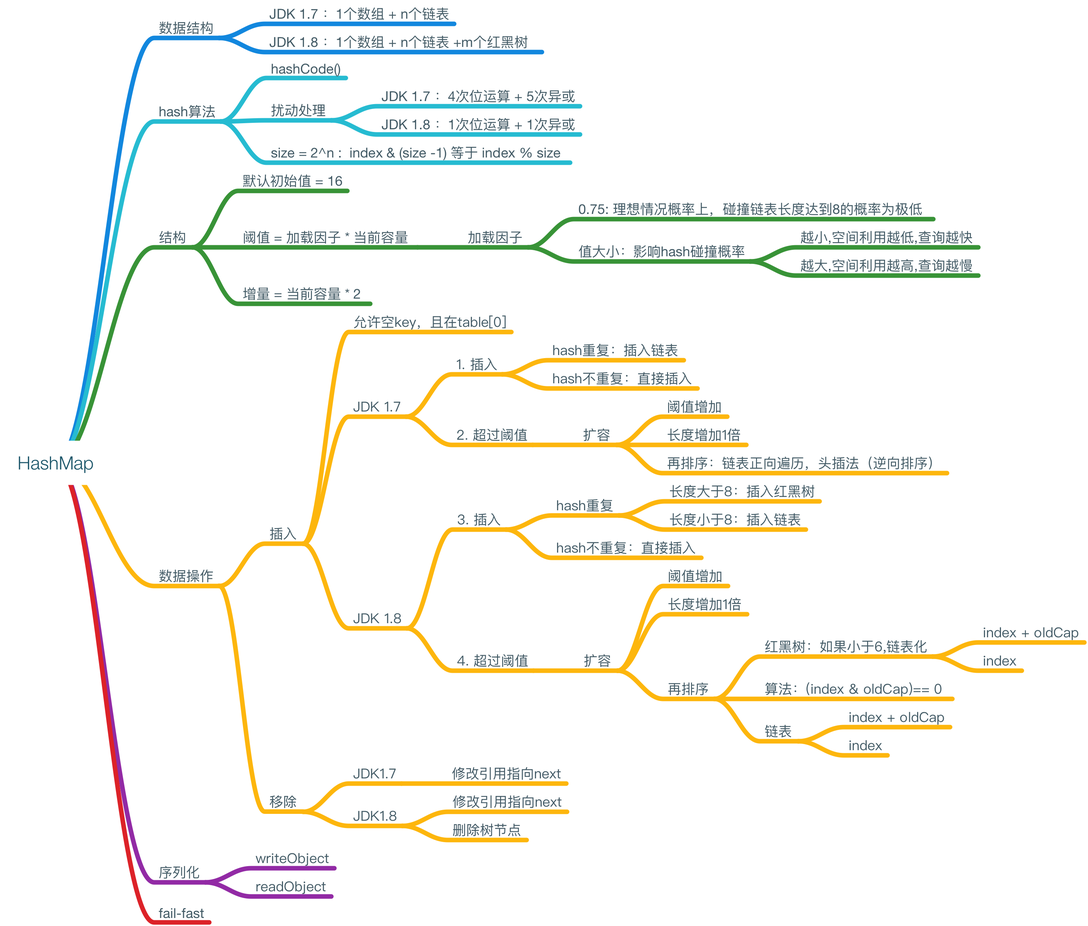
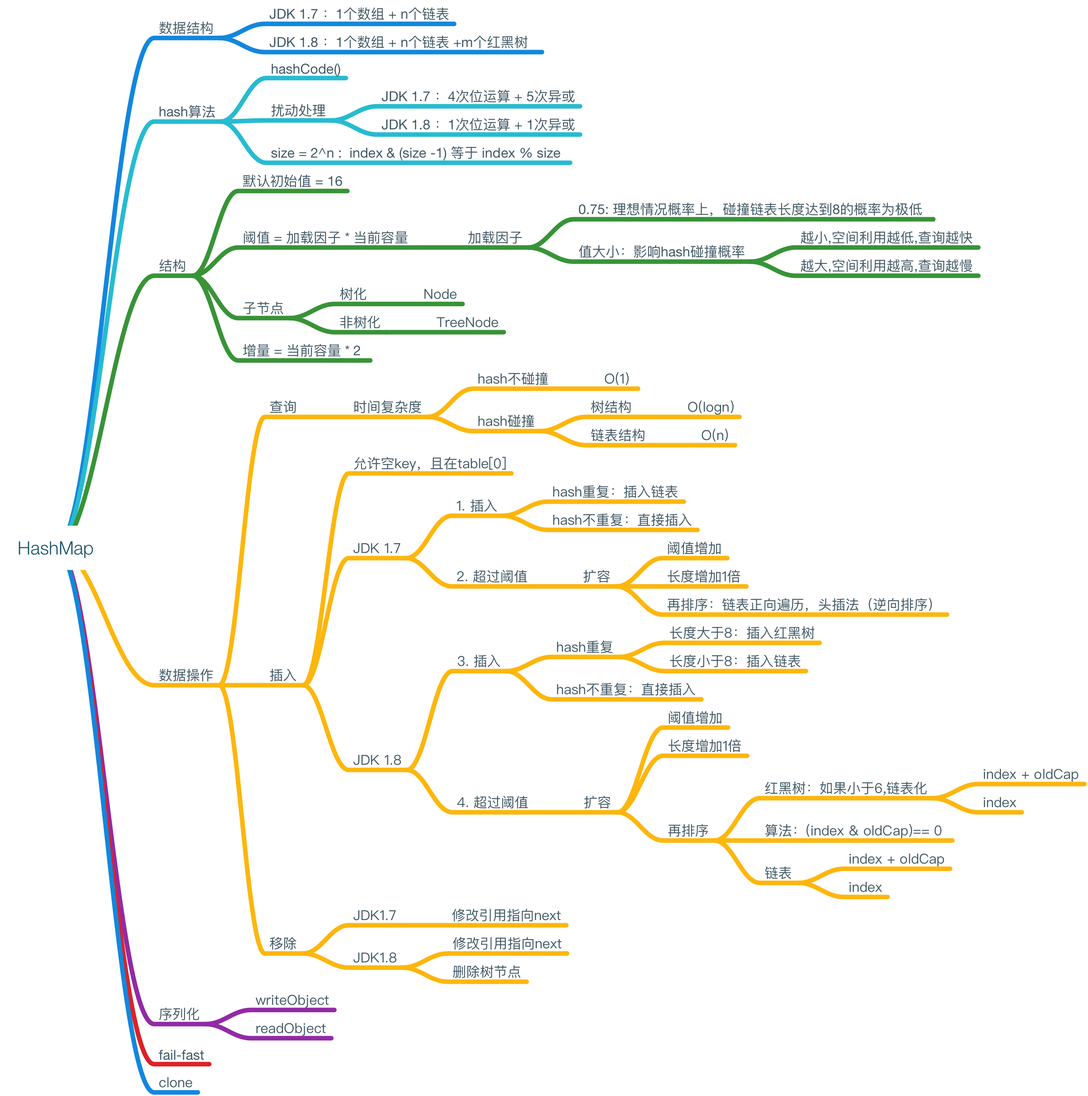
Site updated: 2018-07-26 17:08:09

diff --git a/2018/07/23/最熟悉的陌生人—HashMap/index.html b/2018/07/23/最熟悉的陌生人—HashMap/index.html
@@ -189,6 +189,34 @@
 <p>散列表（Hash table，也叫哈希表），是根据关键码值(Key value)而直接进行访问的数据结构。也就是说，它通过把关键码值映射到表中一个位置来访问记录，以加快查找的速度。</p>
 </blockquote>
 <p>由定义可以肯定的是HashMap是哈希表，而哈希表到底是怎么实现的呢？本篇将会带领你一步一步拆解</p>
+<h2 id="哈希碰撞"><a href="#哈希碰撞" class="headerlink" title="哈希碰撞"></a>哈希碰撞</h2><p>在了解HashMap源码之前，我们还需要了解一个概念，就是哈希碰撞。</p>
+<p>对于这个概念通常有几个疑问</p>
+<ul>
+<li>什么是哈希碰撞（what）</li>
+<li>如何解决哈希碰撞（how）</li>
+<li>哈希碰撞是怎么出现的（why）</li>
+</ul>
+<ol>
+<li>什么是哈希碰撞：</li>
+</ol>
+<p>哈希值是作为一种数据”指纹“而存在，广泛的运用在查找与存储方面。一般情况大家都希望它是具有唯一性的。而事实上，所有产生hash值的hash算法都不能避免哈希值完全不相同。当多个数据的hash值相同的时候，就称为哈希碰撞。</p>
+<p>打个比方，你（key）出生了，被爸妈取名（hash算法）为刘伟，后来发现全国有好多个叫刘伟的人。于是你哭了，我要怎么证明我是我？</p>
+<ol>
+<li>如何解决哈希碰撞：</li>
+</ol>
+<p>常见的解决哈希碰撞的思路有:</p>
+<ul>
+<li>开放地址法：通过使用与地址、表长相关的算法再计算值；</li>
+<li>再哈希法：通过一定的规则多次hash；</li>
+<li>建立一个公共溢出区：通过一个表来记录冲突的hash数据</li>
+<li>拉链法：将hash冲突的值存在同一个链表中；</li>
+</ul>
+<p>(想要了解更多，可点击<a href="https://www.cnblogs.com/ChaosJu/p/4756085.html" target="_blank" rel="noopener">传送门</a>)</p>
+<p>上面的4个方法主要解决的其实就是：在全国有那么个叫刘伟的情况下，还能找到你。</p>
+<p>而以上的方法中被HashMap使用的就是拉链法（我还是不太理解哪里像拉链了），这点下文会介绍到。</p>
+<ul>
+<li>哈希碰撞是怎么出现的（why）<br>如1所说，所有的hash算法不存在hash一次就能保证生成的结果一定是唯一的。而一个好的hash算法就是将出现hash碰撞的概率降到最低。</li>
+</ul>
 <h2 id="类定义"><a href="#类定义" class="headerlink" title="类定义"></a>类定义</h2><figure class="highlight java"><table><tr><td class="gutter"><pre><span class="line">1</span><br><span class="line">2</span><br></pre></td><td class="code"><pre><span class="line"><span class="keyword">public</span> <span class="class"><span class="keyword">class</span> <span class="title">HashMap</span>&lt;<span class="title">K</span>, <span class="title">V</span>&gt; <span class="keyword">extends</span> <span class="title">AbstractMap</span>&lt;<span class="title">K</span>, <span class="title">V</span>&gt;</span></span><br><span class="line"><span class="class">	<span class="keyword">implements</span> <span class="title">Map</span>&lt;<span class="title">K</span>, <span class="title">V</span>&gt;, <span class="title">Cloneable</span>, <span class="title">Serializable</span></span></span><br></pre></td></tr></table></figure>
 <ul>
 <li><p>AbstractMap：实现了Map接口，实现了Map的get，container等方法，不过很多都被HashMap重写</p>
@@ -198,14 +226,47 @@
 <li><p>Serializable：标记接口，可被默认的序列化机制序列化与反序列化</p>
 </li>
 </ul>
-<h2 id="主要内容"><a href="#主要内容" class="headerlink" title="主要内容"></a>主要内容</h2><p><img src="https://github.com/YanyeZhang/YanyeZhang.github.io/blob/master/images/hashmap.png?raw=true" alt="内容大纲"></p>
-<h3 id="数据结构"><a href="#数据结构" class="headerlink" title="数据结构"></a>数据结构</h3><p>HashMap的数据结构在JDK1.8比之于JDK1.7有一个重大的升级：增加了红黑树结构。</p>
+<h2 id="主要内容"><a href="#主要内容" class="headerlink" title="主要内容"></a>主要内容</h2><p><img src="https://github.com/YanyeZhang/YanyeZhang.github.io/blob/master/images/HashMap.png?raw=true" alt="内容大纲"></p>
+<h3 id="数据结构"><a href="#数据结构" class="headerlink" title="数据结构"></a>数据结构</h3><p>HashMap的数据结构在 JDK1.8比之于JDK1.7有一个重大的升级：增加了红黑树结构。</p>
 <ul>
-<li>在JDK1.7中对于发生hash碰撞的值，会通过链表的方式插入：<br><img src="图" alt="内容大纲"></li>
-<li>在JDK1.8中为了解决当链表过长而导致查询速度变慢的问题，引用了红黑树<br><img src="图" alt="内容大纲"></li>
+<li>在 JDK1.7 中对于发生hash碰撞的值，会通过链表的方式插入：<br><img src="https://github.com/YanyeZhang/YanyeZhang.github.io/blob/master/images/jdk1.7-hashmap.png?raw=true" alt="内容大纲"></li>
+<li>在JDK1.8中为了解决当链表过长而导致查询速度变慢的问题，在原有的结构上引用了红黑树。<br><img src="https://github.com/YanyeZhang/YanyeZhang.github.io/blob/master/images/jdk1.8-hashmap.png?raw=true" alt="内容大纲"></li>
 </ul>
-<p>关于红黑树的内容，这里先不多加赘述。</p>
-<p>### </p>
+<p>这里我们先了解一下红黑树优点：在插入、删除、查询的时候时间复杂度是O(log n)，在应付数据量较大的时候有着良好的性能。</p>
+<p>回到JDK1.7,没有红黑树的情况下对链表的查询、删除、插入将永远是O(n)。当n值较大的时候，所耗费的时间也会随之增大，也正是为了性能的优化，JDK1.8中引入了红黑树。</p>
+<p>关于红黑树的内容，这里先不多加赘述。附带一个<a href="http://www.cnblogs.com/skywang12345/p/3245399.html" target="_blank" rel="noopener">学习地址</a></p>
+<h3 id="Hash算法"><a href="#Hash算法" class="headerlink" title="Hash算法"></a>Hash算法</h3><p>HashMap的哈希值也经历了1.7到1.8的升级过程。</p>
+<ul>
+<li><p>JDK1.8的哈希算法：一次位运算，一次异或；</p>
+<figure class="highlight java"><table><tr><td class="gutter"><pre><span class="line">1</span><br><span class="line">2</span><br><span class="line">3</span><br><span class="line">4</span><br></pre></td><td class="code"><pre><span class="line"><span class="function"><span class="keyword">static</span> <span class="keyword">final</span> <span class="keyword">int</span> <span class="title">hash</span><span class="params">(Object key)</span> </span>&#123;</span><br><span class="line">	<span class="keyword">int</span> h;</span><br><span class="line">       <span class="keyword">return</span> (key == <span class="keyword">null</span>) ? <span class="number">0</span> : (h = key.hashCode()) ^ (h &gt;&gt;&gt; <span class="number">16</span>);</span><br><span class="line">&#125;</span><br></pre></td></tr></table></figure>
+</li>
+<li><p>JDK1.7的哈希算法：4次位运算，5次异或；</p>
+<figure class="highlight java"><table><tr><td class="gutter"><pre><span class="line">1</span><br><span class="line">2</span><br><span class="line">3</span><br><span class="line">4</span><br><span class="line">5</span><br><span class="line">6</span><br></pre></td><td class="code"><pre><span class="line"><span class="function"><span class="keyword">static</span> <span class="keyword">final</span> <span class="keyword">int</span> <span class="title">hash</span><span class="params">(Object key)</span> </span>&#123;</span><br><span class="line">	<span class="keyword">int</span> h;</span><br><span class="line">	h ^= k.hashCode(); </span><br><span class="line">       h ^= (h &gt;&gt;&gt; <span class="number">20</span>) ^ (h &gt;&gt;&gt; <span class="number">12</span>);</span><br><span class="line">       <span class="keyword">return</span> h ^ (h &gt;&gt;&gt; <span class="number">7</span>) ^ (h &gt;&gt;&gt; <span class="number">4</span>)</span><br><span class="line">&#125;</span><br></pre></td></tr></table></figure>
+</li>
+</ul>
+<p>两个版本间的hash算法的变化，出于两个目的：</p>
+<ol>
+<li>减少计算次数，提高效率</li>
+<li>降低hash碰撞的概率</li>
+</ol>
+<p>这里得出hash值根据以下公式生成索引</p>
+<figure class="highlight java"><table><tr><td class="gutter"><pre><span class="line">1</span><br></pre></td><td class="code"><pre><span class="line">index = hash(key) &amp; (length -<span class="number">1</span>)</span><br></pre></td></tr></table></figure>
+<h4 id="问题1：为什么length的值要是2-n？"><a href="#问题1：为什么length的值要是2-n？" class="headerlink" title="问题1：为什么length的值要是2^n？"></a>问题1：为什么length的值要是2^n？</h4><p>很多刚开始看的同学都会有这个疑问。 这里给出我自己的解答：</p>
+<blockquote>
+<p>在 length为2^n的情况下，能保证与hash值与运算的结果在 0 ~ length-1 之间</p>
+</blockquote>
+<p>以下我们来验证一下，<br><figure class="highlight java"><table><tr><td class="gutter"><pre><span class="line">1</span><br><span class="line">2</span><br><span class="line">3</span><br></pre></td><td class="code"><pre><span class="line">hash(key)     = <span class="number">1011</span> <span class="number">1011</span> <span class="number">1101</span> <span class="number">0010</span></span><br><span class="line">length：<span class="number">2</span>^<span class="number">4</span>-<span class="number">1</span> = <span class="number">0000</span> <span class="number">0000</span> <span class="number">0000</span> <span class="number">1111</span></span><br><span class="line">result        = <span class="number">0000</span> <span class="number">0000</span> <span class="number">0000</span> <span class="number">0010</span></span><br></pre></td></tr></table></figure></p>
+<p>因为length的高于8的位都是0，所以进行与运算之后都会置为0。因此范围一定落在0 ~ length-1之间。</p>
+<h3 id="结构"><a href="#结构" class="headerlink" title="结构"></a>结构</h3><p>以下代码节选出一些HashMap中比较重要的参数。<br><figure class="highlight plain"><table><tr><td class="gutter"><pre><span class="line">1</span><br><span class="line">2</span><br><span class="line">3</span><br><span class="line">4</span><br><span class="line">5</span><br><span class="line">6</span><br><span class="line">7</span><br><span class="line">8</span><br><span class="line">9</span><br><span class="line">10</span><br><span class="line">11</span><br><span class="line">12</span><br><span class="line">13</span><br><span class="line">14</span><br><span class="line">15</span><br><span class="line">16</span><br><span class="line">17</span><br><span class="line">18</span><br><span class="line">19</span><br><span class="line">20</span><br><span class="line">21</span><br><span class="line">22</span><br><span class="line">23</span><br><span class="line">24</span><br><span class="line">25</span><br><span class="line">26</span><br><span class="line">27</span><br><span class="line">28</span><br><span class="line">29</span><br><span class="line">30</span><br><span class="line">31</span><br><span class="line">32</span><br><span class="line">33</span><br><span class="line">34</span><br><span class="line">35</span><br><span class="line">36</span><br><span class="line">37</span><br><span class="line">38</span><br><span class="line">39</span><br><span class="line">40</span><br><span class="line">41</span><br><span class="line">42</span><br><span class="line">43</span><br><span class="line">44</span><br><span class="line">45</span><br><span class="line">46</span><br><span class="line">47</span><br><span class="line">48</span><br><span class="line">49</span><br><span class="line">50</span><br><span class="line">51</span><br><span class="line">52</span><br><span class="line">53</span><br></pre></td><td class="code"><pre><span class="line">static final int DEFAULT_INITIAL_CAPACITY = 1 &lt;&lt; 4; // 默认大小</span><br><span class="line">static final int MAXIMUM_CAPACITY = 1 &lt;&lt; 30;  //最大容量</span><br><span class="line">static final float DEFAULT_LOAD_FACTOR = 0.75f; //扩容因子</span><br><span class="line"></span><br><span class="line">transient Node&lt;K,V&gt;[] table; //数组</span><br><span class="line">transient int size;	//元素的个数</span><br><span class="line">transient int modCount; //操作数</span><br><span class="line">int threshold;	//阈值</span><br><span class="line"></span><br><span class="line">static class Node&lt;K,V&gt; implements Map.Entry&lt;K,V&gt; &#123; //节点类</span><br><span class="line">		final int hash; //节点hash值</span><br><span class="line">        final K key; </span><br><span class="line">        V value;</span><br><span class="line">        Node&lt;K,V&gt; next; //指向下一个节点</span><br><span class="line"></span><br><span class="line">        Node(int hash, K key, V value, Node&lt;K,V&gt; next) &#123;</span><br><span class="line">            this.hash = hash;</span><br><span class="line">            this.key = key;</span><br><span class="line">            this.value = value;</span><br><span class="line">            this.next = next;</span><br><span class="line">        &#125;</span><br><span class="line"></span><br><span class="line">        public final K getKey()        &#123; return key; &#125;</span><br><span class="line">        public final V getValue()      &#123; return value; &#125;</span><br><span class="line">        public final String toString() &#123; return key + &quot;=&quot; + value; &#125;</span><br><span class="line"></span><br><span class="line">        public final int hashCode() &#123;</span><br><span class="line">            return Objects.hashCode(key) ^ Objects.hashCode(value);</span><br><span class="line">        &#125;</span><br><span class="line"></span><br><span class="line">        public final V setValue(V newValue) &#123;</span><br><span class="line">            V oldValue = value;</span><br><span class="line">            value = newValue;</span><br><span class="line">            return oldValue;</span><br><span class="line">        &#125;</span><br><span class="line"></span><br><span class="line">        public final boolean equals(Object o) &#123;</span><br><span class="line">            if (o == this)</span><br><span class="line">                return true;</span><br><span class="line">            if (o instanceof Map.Entry) &#123;</span><br><span class="line">                Map.Entry&lt;?,?&gt; e = (Map.Entry&lt;?,?&gt;)o;</span><br><span class="line">                if (Objects.equals(key, e.getKey()) &amp;&amp;</span><br><span class="line">                    Objects.equals(value, e.getValue()))</span><br><span class="line">                    return true;</span><br><span class="line">            &#125;</span><br><span class="line">            return false;</span><br><span class="line">        &#125;</span><br><span class="line">    &#125;</span><br><span class="line"></span><br><span class="line">JDK1.8新增：</span><br><span class="line">static final int TREEIFY_THRESHOLD = 8; //链表转树最小值</span><br><span class="line">static final int UNTREEIFY_THRESHOLD = 6; //树转链表最小值</span><br><span class="line">static final class TreeNode&lt;K,V&gt; extends LinkedHashMap.LinkedHashMapEntry&lt;K,V&gt; //树化的节点类</span><br></pre></td></tr></table></figure></p>
+<p>以上比较重要的就是扩容因子与阈值,它们间的计算公式如下<br><figure class="highlight plain"><table><tr><td class="gutter"><pre><span class="line">1</span><br></pre></td><td class="code"><pre><span class="line">threshold = table.length * DEFAULT_LOAD_FACTOR</span><br></pre></td></tr></table></figure></p>
+<p>其次就是Node类，HashMap中将所有传进来的key和value 都通过Node来包装一层。除了key和value这些基础数据之外。当hash碰撞后，将会由Node类中的next成员变量作为持有下一个节点的引用形成链表（单向链表）。而1.8中TreeNode是在数化之后变换的节点类型，感兴趣的可以自己深入</p>
+<h4 id="问题2：阈值与扩容因子的作用？"><a href="#问题2：阈值与扩容因子的作用？" class="headerlink" title="问题2：阈值与扩容因子的作用？"></a>问题2：阈值与扩容因子的作用？</h4><p>阈值的作用是判断当前是否需要扩容的，当size超过阈值就需要扩容。因此扩容因子直接决定了阈值的大小。而从更深层次的角度上看，扩容因子影响了HashMap的空间利用率。</p>
+<p>当扩容因子较小的时候，size很容易就超过阈值，引发扩容。这个时候table的空间还相对充分，元素分布较为分散。因此空间利用率较低。正是因为这样的特性，扩容因子较小的时候也不容易产生哈希碰撞。</p>
+<p>反之，扩容因子越大。元素分布越紧密，空间利用率越高，而容易发生哈希碰撞。</p>
+<p>某天公司同事小杰宝问了我一个问题——”为什么扩容因子是0.75f“，我一时语塞。网上查完资料后才知道。在理想情况下，经过大量数据概率验证后扩容因子为0.75f的时候，链表长度几乎不超过8。</p>
+<p>而HashMap扩容的部分，我放在后面插入的部分讲解。</p>
+<h3 id="数据操作"><a href="#数据操作" class="headerlink" title="数据操作"></a>数据操作</h3><h4 id="查询操作"><a href="#查询操作" class="headerlink" title="查询操作"></a>查询操作</h4><p>以下以JDK1.8的源码为例：<br><figure class="highlight java"><table><tr><td class="gutter"><pre><span class="line">1</span><br><span class="line">2</span><br><span class="line">3</span><br><span class="line">4</span><br><span class="line">5</span><br><span class="line">6</span><br><span class="line">7</span><br><span class="line">8</span><br><span class="line">9</span><br><span class="line">10</span><br><span class="line">11</span><br><span class="line">12</span><br><span class="line">13</span><br><span class="line">14</span><br><span class="line">15</span><br><span class="line">16</span><br><span class="line">17</span><br><span class="line">18</span><br><span class="line">19</span><br><span class="line">20</span><br><span class="line">21</span><br><span class="line">22</span><br><span class="line">23</span><br><span class="line">24</span><br><span class="line">25</span><br><span class="line">26</span><br><span class="line">27</span><br><span class="line">28</span><br><span class="line">29</span><br></pre></td><td class="code"><pre><span class="line"><span class="function"><span class="keyword">public</span> V <span class="title">get</span><span class="params">(Object key)</span> </span>&#123;</span><br><span class="line">	Node&lt;K,V&gt; e;</span><br><span class="line">	<span class="keyword">return</span> (e = getNode(hash(key), key)) == <span class="keyword">null</span> ? <span class="keyword">null</span> : e.value;</span><br><span class="line">&#125;</span><br><span class="line">   </span><br><span class="line"><span class="function"><span class="keyword">final</span> Node&lt;K,V&gt; <span class="title">getNode</span><span class="params">(<span class="keyword">int</span> hash, Object key)</span> </span>&#123;</span><br><span class="line">	Node&lt;K,V&gt;[] tab; Node&lt;K,V&gt; first, e; <span class="keyword">int</span> n; K k;</span><br><span class="line">       <span class="comment">//1.根据 (n - 1) &amp; hash 方式获取数组上的索引和其上的元素</span></span><br><span class="line">	<span class="keyword">if</span> ((tab = table) != <span class="keyword">null</span> &amp;&amp; (n = tab.length) &gt; <span class="number">0</span> &amp;&amp;</span><br><span class="line">		(first = tab[(n - <span class="number">1</span>) &amp; hash]) != <span class="keyword">null</span>) &#123;</span><br><span class="line">           <span class="comment">//2. 判断第一个元素的key和value是否就是所需的节点，如果是就直接返回节点</span></span><br><span class="line">           <span class="keyword">if</span> (first.hash == hash &amp;&amp; <span class="comment">// always check first node</span></span><br><span class="line">               ((k = first.key) == key || (key != <span class="keyword">null</span> &amp;&amp; key.equals(k))))</span><br><span class="line">               <span class="keyword">return</span> first;</span><br><span class="line">           <span class="keyword">if</span> ((e = first.next) != <span class="keyword">null</span>) &#123;</span><br><span class="line">           	<span class="comment">//3. 判断第一个节点是否是树节点，如果是树，就调用树的查询方式</span></span><br><span class="line">               <span class="keyword">if</span> (first <span class="keyword">instanceof</span> TreeNode)</span><br><span class="line">               	<span class="comment">//3.1 返回树化节点</span></span><br><span class="line">                   <span class="keyword">return</span> ((TreeNode&lt;K,V&gt;)first).getTreeNode(hash, key);</span><br><span class="line">               <span class="comment">//4. 当前的节点是链表节点，通过for循环查找</span></span><br><span class="line">               <span class="keyword">do</span> &#123;</span><br><span class="line">                   <span class="keyword">if</span> (e.hash == hash &amp;&amp;</span><br><span class="line">                       ((k = e.key) == key || (key != <span class="keyword">null</span> &amp;&amp; key.equals(k))))</span><br><span class="line">                       <span class="keyword">return</span> e;</span><br><span class="line">               &#125; <span class="keyword">while</span> ((e = e.next) != <span class="keyword">null</span>);</span><br><span class="line">           &#125;</span><br><span class="line">       &#125;</span><br><span class="line">       <span class="keyword">return</span> <span class="keyword">null</span>;</span><br><span class="line">   &#125;</span><br></pre></td></tr></table></figure></p>
+<p>为了更好的了解这个流程，可以看以下的流程图增加一下印象<br><img src="" alt=""><br>在HashMap的优点之一是查询速度快，在哈希不碰撞的情况下 时间复杂度是O(1)，而在hash碰撞的时候有两种情况，树化情况下，时间复杂度O(logn)，链表化的情况下，时间复杂度是O(n)。</p>
 
     </article>
     <!-- 前后页  -->
@@ -294,7 +355,7 @@
         <div class="toc-catalog">
             <span class="iconfont-archer catalog-icon">&#xe613;</span><span>CATALOG</span>
         </div>
-        <ol class="toc"><li class="toc-item toc-level-2"><a class="toc-link" href="#前言"><span class="toc-number">1.</span> <span class="toc-text"><a href="#&#x524D;&#x8A00;" class="headerlink" title="&#x524D;&#x8A00;"></a>&#x524D;&#x8A00;</span></a></li><li class="toc-item toc-level-2"><a class="toc-link" href="#类定义"><span class="toc-number">2.</span> <span class="toc-text"><a href="#&#x7C7B;&#x5B9A;&#x4E49;" class="headerlink" title="&#x7C7B;&#x5B9A;&#x4E49;"></a>&#x7C7B;&#x5B9A;&#x4E49;</span></a></li><li class="toc-item toc-level-2"><a class="toc-link" href="#主要内容"><span class="toc-number">3.</span> <span class="toc-text"><a href="#&#x4E3B;&#x8981;&#x5185;&#x5BB9;" class="headerlink" title="&#x4E3B;&#x8981;&#x5185;&#x5BB9;"></a>&#x4E3B;&#x8981;&#x5185;&#x5BB9;</span></a><ol class="toc-child"><li class="toc-item toc-level-3"><a class="toc-link" href="#数据结构"><span class="toc-number">3.1.</span> <span class="toc-text"><a href="#&#x6570;&#x636E;&#x7ED3;&#x6784;" class="headerlink" title="&#x6570;&#x636E;&#x7ED3;&#x6784;"></a>&#x6570;&#x636E;&#x7ED3;&#x6784;</span></a></li></ol></li></ol>
+        <ol class="toc"><li class="toc-item toc-level-2"><a class="toc-link" href="#前言"><span class="toc-number">1.</span> <span class="toc-text"><a href="#&#x524D;&#x8A00;" class="headerlink" title="&#x524D;&#x8A00;"></a>&#x524D;&#x8A00;</span></a></li><li class="toc-item toc-level-2"><a class="toc-link" href="#哈希碰撞"><span class="toc-number">2.</span> <span class="toc-text"><a href="#&#x54C8;&#x5E0C;&#x78B0;&#x649E;" class="headerlink" title="&#x54C8;&#x5E0C;&#x78B0;&#x649E;"></a>&#x54C8;&#x5E0C;&#x78B0;&#x649E;</span></a></li><li class="toc-item toc-level-2"><a class="toc-link" href="#类定义"><span class="toc-number">3.</span> <span class="toc-text"><a href="#&#x7C7B;&#x5B9A;&#x4E49;" class="headerlink" title="&#x7C7B;&#x5B9A;&#x4E49;"></a>&#x7C7B;&#x5B9A;&#x4E49;</span></a></li><li class="toc-item toc-level-2"><a class="toc-link" href="#主要内容"><span class="toc-number">4.</span> <span class="toc-text"><a href="#&#x4E3B;&#x8981;&#x5185;&#x5BB9;" class="headerlink" title="&#x4E3B;&#x8981;&#x5185;&#x5BB9;"></a>&#x4E3B;&#x8981;&#x5185;&#x5BB9;</span></a><ol class="toc-child"><li class="toc-item toc-level-3"><a class="toc-link" href="#数据结构"><span class="toc-number">4.1.</span> <span class="toc-text"><a href="#&#x6570;&#x636E;&#x7ED3;&#x6784;" class="headerlink" title="&#x6570;&#x636E;&#x7ED3;&#x6784;"></a>&#x6570;&#x636E;&#x7ED3;&#x6784;</span></a></li><li class="toc-item toc-level-3"><a class="toc-link" href="#Hash算法"><span class="toc-number">4.2.</span> <span class="toc-text"><a href="#Hash&#x7B97;&#x6CD5;" class="headerlink" title="Hash&#x7B97;&#x6CD5;"></a>Hash&#x7B97;&#x6CD5;</span></a><ol class="toc-child"><li class="toc-item toc-level-4"><a class="toc-link" href="#问题1：为什么length的值要是2-n？"><span class="toc-number">4.2.1.</span> <span class="toc-text"><a href="#&#x95EE;&#x9898;1&#xFF1A;&#x4E3A;&#x4EC0;&#x4E48;length&#x7684;&#x503C;&#x8981;&#x662F;2-n&#xFF1F;" class="headerlink" title="&#x95EE;&#x9898;1&#xFF1A;&#x4E3A;&#x4EC0;&#x4E48;length&#x7684;&#x503C;&#x8981;&#x662F;2^n&#xFF1F;"></a>&#x95EE;&#x9898;1&#xFF1A;&#x4E3A;&#x4EC0;&#x4E48;length&#x7684;&#x503C;&#x8981;&#x662F;2^n&#xFF1F;</span></a></li></ol></li><li class="toc-item toc-level-3"><a class="toc-link" href="#结构"><span class="toc-number">4.3.</span> <span class="toc-text"><a href="#&#x7ED3;&#x6784;" class="headerlink" title="&#x7ED3;&#x6784;"></a>&#x7ED3;&#x6784;</span></a><ol class="toc-child"><li class="toc-item toc-level-4"><a class="toc-link" href="#问题2：阈值与扩容因子的作用？"><span class="toc-number">4.3.1.</span> <span class="toc-text"><a href="#&#x95EE;&#x9898;2&#xFF1A;&#x9608;&#x503C;&#x4E0E;&#x6269;&#x5BB9;&#x56E0;&#x5B50;&#x7684;&#x4F5C;&#x7528;&#xFF1F;" class="headerlink" title="&#x95EE;&#x9898;2&#xFF1A;&#x9608;&#x503C;&#x4E0E;&#x6269;&#x5BB9;&#x56E0;&#x5B50;&#x7684;&#x4F5C;&#x7528;&#xFF1F;"></a>&#x95EE;&#x9898;2&#xFF1A;&#x9608;&#x503C;&#x4E0E;&#x6269;&#x5BB9;&#x56E0;&#x5B50;&#x7684;&#x4F5C;&#x7528;&#xFF1F;</span></a></li></ol></li><li class="toc-item toc-level-3"><a class="toc-link" href="#数据操作"><span class="toc-number">4.4.</span> <span class="toc-text"><a href="#&#x6570;&#x636E;&#x64CD;&#x4F5C;" class="headerlink" title="&#x6570;&#x636E;&#x64CD;&#x4F5C;"></a>&#x6570;&#x636E;&#x64CD;&#x4F5C;</span></a><ol class="toc-child"><li class="toc-item toc-level-4"><a class="toc-link" href="#查询操作"><span class="toc-number">4.4.1.</span> <span class="toc-text"><a href="#&#x67E5;&#x8BE2;&#x64CD;&#x4F5C;" class="headerlink" title="&#x67E5;&#x8BE2;&#x64CD;&#x4F5C;"></a>&#x67E5;&#x8BE2;&#x64CD;&#x4F5C;</span></a></li></ol></li></ol></li></ol>
     </div>
     
     <div class="back-top">&#xe639;</div>
@@ -308,6 +369,8 @@
     <div class="sidebar-content sidebar-content-show-archive">
           <div class="sidebar-archive">
     <!-- 在ejs中将archive按照时间排序 -->
+    
+    
     
     
     
@@ -388,9 +451,9 @@
         <div class="sidebar-tags">
     <div class="sidebar-tags-name">
     
-        <span class="sidebar-tag-name"><a href= "#">Java</a></span>
-    
         <span class="sidebar-tag-name"><a href= "#">python</a></span>
+    
+        <span class="sidebar-tag-name"><a href= "#">Java</a></span>
     
     </div>
     <div class="tag-load-fail" style="display: none; color: #ccc; font-size: 0.6rem;">

diff --git a/archives/2017/12/index.html b/archives/2017/12/index.html
@@ -311,6 +311,8 @@ yeild 函数 = return 生成器（generator）
     
     
     
+    
+    
     <div class="total-archive"> Total : 4 </div>
     
     <div class="post-archive">
@@ -355,9 +357,9 @@ yeild 函数 = return 生成器（generator）
         <div class="sidebar-tags">
     <div class="sidebar-tags-name">
     
-        <span class="sidebar-tag-name"><a href= "#">Java</a></span>
-    
         <span class="sidebar-tag-name"><a href= "#">python</a></span>
+    
+        <span class="sidebar-tag-name"><a href= "#">Java</a></span>
     
     </div>
     <div class="tag-load-fail" style="display: none; color: #ccc; font-size: 0.6rem;">

diff --git a/archives/2017/index.html b/archives/2017/index.html
@@ -311,6 +311,8 @@ yeild 函数 = return 生成器（generator）
     
     
     
+    
+    
     <div class="total-archive"> Total : 4 </div>
     
     <div class="post-archive">
@@ -355,9 +357,9 @@ yeild 函数 = return 生成器（generator）
         <div class="sidebar-tags">
     <div class="sidebar-tags-name">
     
-        <span class="sidebar-tag-name"><a href= "#">Java</a></span>
-    
         <span class="sidebar-tag-name"><a href= "#">python</a></span>
+    
+        <span class="sidebar-tag-name"><a href= "#">Java</a></span>
     
     </div>
     <div class="tag-load-fail" style="display: none; color: #ccc; font-size: 0.6rem;">

diff --git a/archives/index.html b/archives/index.html
@@ -368,6 +368,8 @@ yeild 函数 = return 生成器（generator）
     
     
     
+    
+    
     <div class="total-archive"> Total : 4 </div>
     
     <div class="post-archive">
@@ -412,9 +414,9 @@ yeild 函数 = return 生成器（generator）
         <div class="sidebar-tags">
     <div class="sidebar-tags-name">
     
-        <span class="sidebar-tag-name"><a href= "#">Java</a></span>
-    
         <span class="sidebar-tag-name"><a href= "#">python</a></span>
+    
+        <span class="sidebar-tag-name"><a href= "#">Java</a></span>
     
     </div>
     <div class="tag-load-fail" style="display: none; color: #ccc; font-size: 0.6rem;">

diff --git a/index.html b/index.html
@@ -424,6 +424,8 @@ yeild 函数 = return 生成器（generator）
     
     
     
+    
+    
     <div class="total-archive"> Total : 4 </div>
     
     <div class="post-archive">
@@ -468,9 +470,9 @@ yeild 函数 = return 生成器（generator）
         <div class="sidebar-tags">
     <div class="sidebar-tags-name">
     
-        <span class="sidebar-tag-name"><a href= "#">Java</a></span>
-    
         <span class="sidebar-tag-name"><a href= "#">python</a></span>
+    
+        <span class="sidebar-tag-name"><a href= "#">Java</a></span>
     
     </div>
     <div class="tag-load-fail" style="display: none; color: #ccc; font-size: 0.6rem;">

diff --git a/tags/python/index.html b/tags/python/index.html
@@ -311,6 +311,8 @@ yeild 函数 = return 生成器（generator）
     
     
     
+    
+    
     <div class="total-archive"> Total : 4 </div>
     
     <div class="post-archive">
@@ -355,9 +357,9 @@ yeild 函数 = return 生成器（generator）
         <div class="sidebar-tags">
     <div class="sidebar-tags-name">
     
-        <span class="sidebar-tag-name"><a href= "#">Java</a></span>
-    
         <span class="sidebar-tag-name"><a href= "#">python</a></span>
+    
+        <span class="sidebar-tag-name"><a href= "#">Java</a></span>
     
     </div>
     <div class="tag-load-fail" style="display: none; color: #ccc; font-size: 0.6rem;">

diff --git a/2017/12/18/yield关键字理解/index.html b/2017/12/18/yield关键字理解/index.html
@@ -351,6 +351,8 @@
     
     
     
+    
+    
     <div class="total-archive"> Total : 4 </div>
     
     <div class="post-archive">
@@ -395,9 +397,9 @@
         <div class="sidebar-tags">
     <div class="sidebar-tags-name">
     
-        <span class="sidebar-tag-name"><a href= "#">Java</a></span>
-    
         <span class="sidebar-tag-name"><a href= "#">python</a></span>
+    
+        <span class="sidebar-tag-name"><a href= "#">Java</a></span>
     
     </div>
     <div class="tag-load-fail" style="display: none; color: #ccc; font-size: 0.6rem;">

diff --git a/2017/12/19/Scrapy入门实现—懒人追书/index.html b/2017/12/19/Scrapy入门实现—懒人追书/index.html
@@ -382,6 +382,8 @@
     
     
     
+    
+    
     <div class="total-archive"> Total : 4 </div>
     
     <div class="post-archive">
@@ -426,9 +428,9 @@
         <div class="sidebar-tags">
     <div class="sidebar-tags-name">
     
-        <span class="sidebar-tag-name"><a href= "#">Java</a></span>
-    
         <span class="sidebar-tag-name"><a href= "#">python</a></span>
+    
+        <span class="sidebar-tag-name"><a href= "#">Java</a></span>
     
     </div>
     <div class="tag-load-fail" style="display: none; color: #ccc; font-size: 0.6rem;">

diff --git a/2018/07/17/java数组/index.html b/2018/07/17/java数组/index.html
@@ -405,6 +405,8 @@
     
     
     
+    
+    
     <div class="total-archive"> Total : 4 </div>
     
     <div class="post-archive">
@@ -449,9 +451,9 @@
         <div class="sidebar-tags">
     <div class="sidebar-tags-name">
     
-        <span class="sidebar-tag-name"><a href= "#">Java</a></span>
-    
         <span class="sidebar-tag-name"><a href= "#">python</a></span>
+    
+        <span class="sidebar-tag-name"><a href= "#">Java</a></span>
     
     </div>
     <div class="tag-load-fail" style="display: none; color: #ccc; font-size: 0.6rem;">
